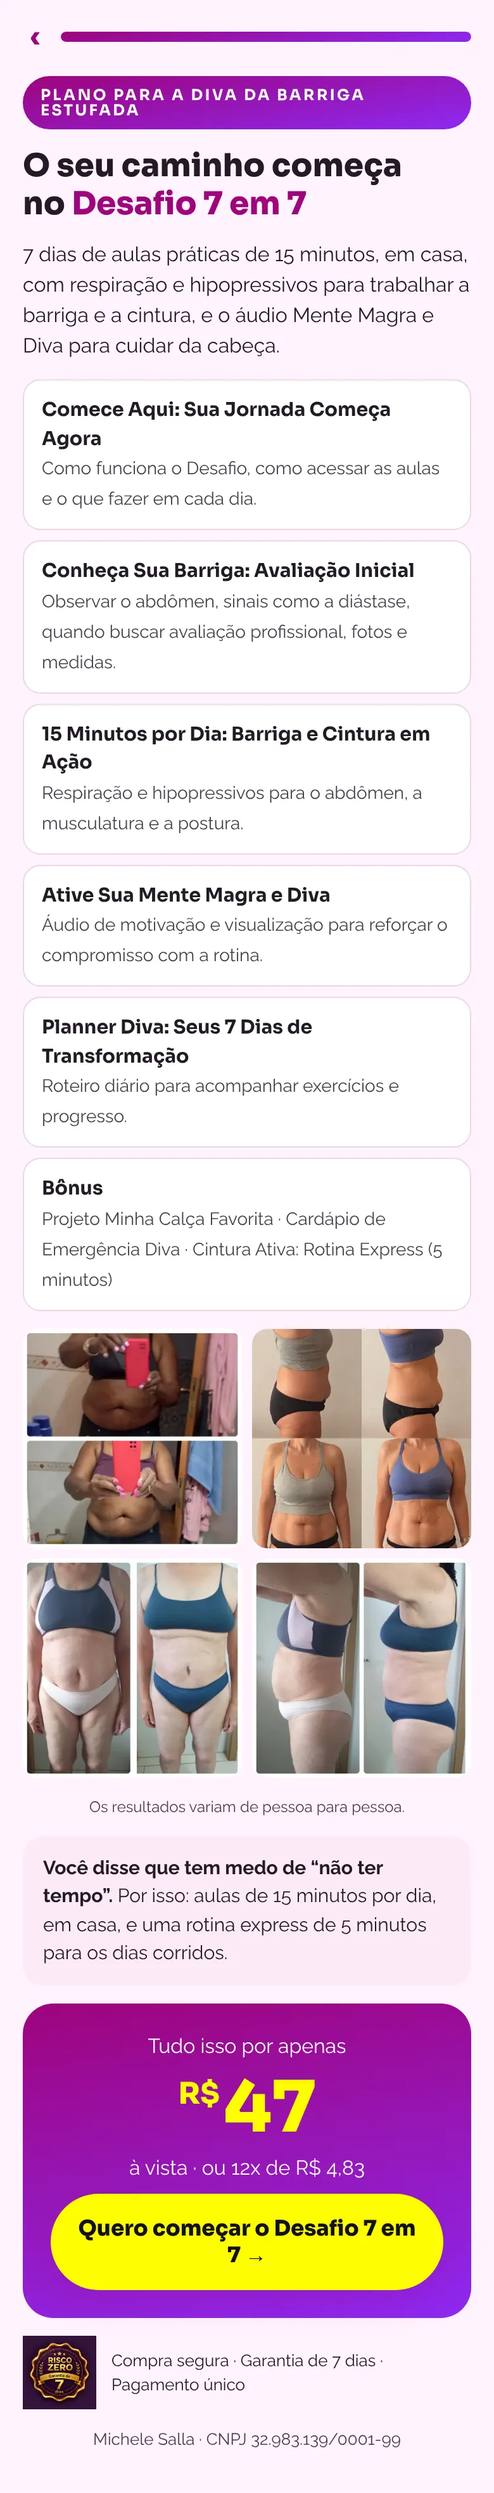
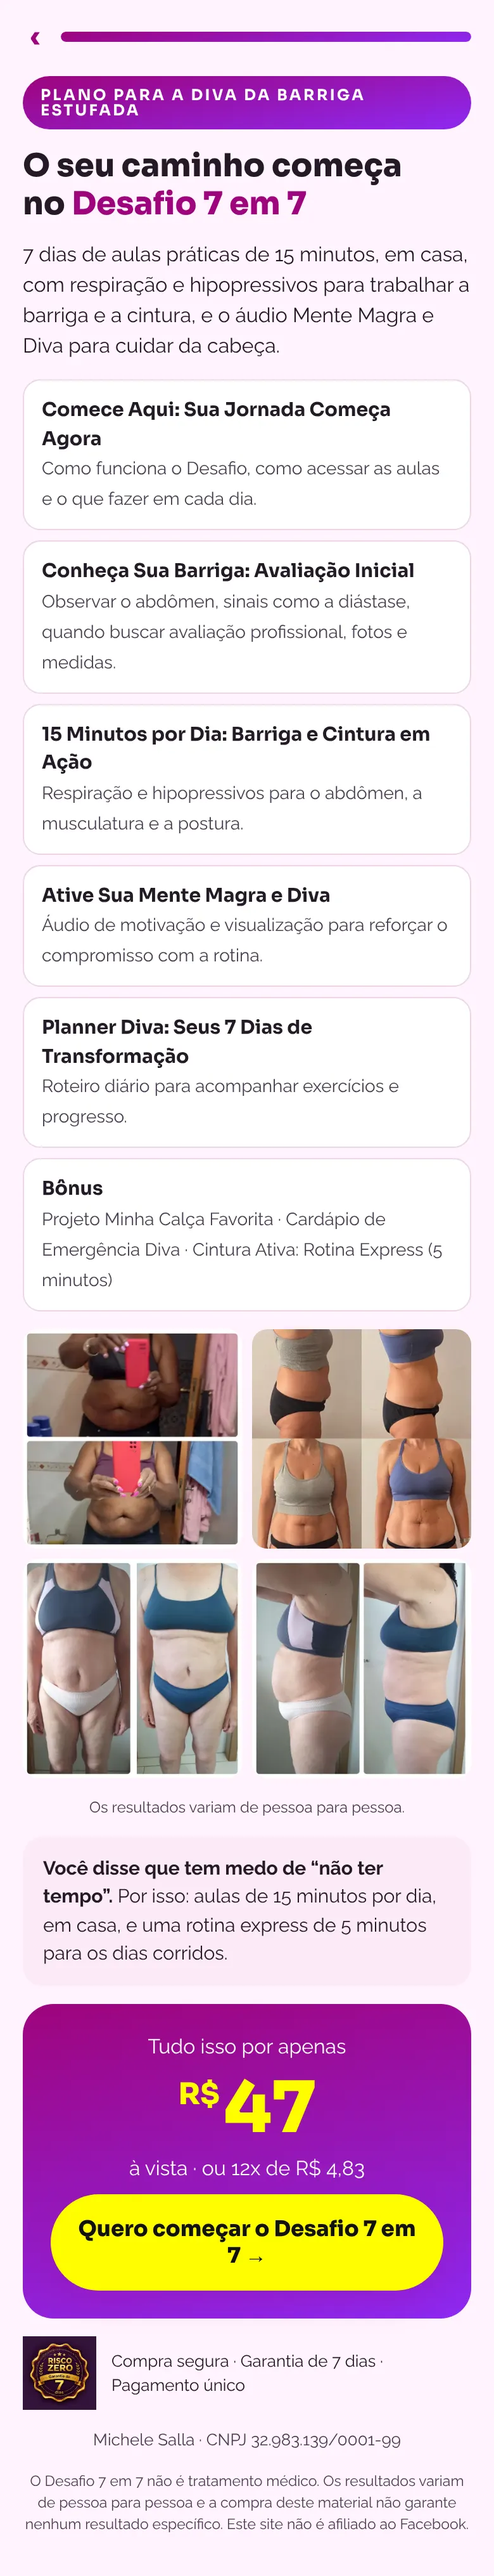
Quizzes da Michele: aviso de saúde na oferta e lista final do que pedir à Michele
Claude-Session: https://claude.ai/code/session_01LYmQoangNvB5k6wY4MKJN5

diff --git a/michele-salla/quiz-pilates/revisao/index.html b/michele-salla/quiz-pilates/revisao/index.html
@@ -163,9 +163,13 @@ footer{color:var(--suave);font-size:13px}
       <h3>O que ainda falta (da Hotmart)</h3>
       <ul class="checks pend">
         <li><span>Quantas aulas, quantos minutos cada e por quanto tempo fica o acesso (hoje o quiz não cita números, para não inventar).</span></li>
+        <li><span>Como a aluna acessa (área de membros da Hotmart? app?) e se é pagamento único, não assinatura.</span></li>
         <li><span>Confirmar se os nomes dos 5 blocos da oferta batem com os módulos da Hotmart (montei pelo texto dela).</span></li>
         <li><span>Bônus, se tiver. A garantia está como “mínima de 7 dias”: se na Hotmart for maior, me avise.</span></li>
-        <li><span>Prints de depoimentos de alunas do pilates (as fotos das aulas já estão no quiz).</span></li>
+        <li><span>Prints de depoimentos de alunas do pilates (texto ou WhatsApp, com autorização).</span></li>
+        <li><span>Confirmar que as alunas das fotos autorizaram o uso da imagem em anúncio e página.</span></li>
+        <li><span>Revisar como especialista o “O que está te travando” de cada perfil (ex.: “quando a postura sai do lugar, a barriga aparece mais”).</span></li>
+        <li><span>Se existe logo ou marca do “Pilates em Casa” (hoje o quiz usa só o nome).</span></li>
       </ul>
     </div>
   </div>

diff --git a/michele-salla/quiz/motor.js b/michele-salla/quiz/motor.js
@@ -129,7 +129,8 @@ function desenha() {
       <div class="preco"><span>Tudo isso por apenas</span><span class="v"><small>R$</small>${esc(O.valor)}</span><span>${txt(O.parcela)}</span>
         ${botao}</div>
       <div class="selos"><img src="${IMG}selo-garantia-7-dias.webp" alt="Garantia" width="400" height="400"><span>${txt(O.selos)}</span></div>
-      <p class="miudo">Michele Salla · CNPJ 32.983.139/0001-99</p></section>`
+      <p class="miudo">Michele Salla · CNPJ 32.983.139/0001-99</p>
+      ${O.rodape ? `<p class="miudo" style="font-size:11.5px">${txt(O.rodape)}</p>` : ''}</section>`
   }
   app.innerHTML = h
 }

diff --git a/michele-salla/quiz-pilates/pilates.js b/michele-salla/quiz-pilates/pilates.js
@@ -183,5 +183,6 @@ const QUIZ = {
     parcela: 'pagamento único, pela Hotmart',
     botao: 'Quero começar o meu pilates em casa',
     selos: 'Compra segura pela Hotmart · Garantia mínima de 7 dias · Pagamento único',
+    rodape: 'O Pilates em Casa não substitui avaliação médica ou fisioterapêutica. Se você tem dor, hérnia, teve bebê há pouco tempo ou tem outra condição de saúde, converse com o seu médico antes de começar. Os resultados variam de pessoa para pessoa. Este site não é afiliado ao Facebook.',
   },
 }

diff --git a/michele-salla/quiz/quiz.js b/michele-salla/quiz/quiz.js
@@ -195,5 +195,6 @@ const QUIZ = {
     parcela: 'à vista · ou 12x de R$ 4,83',
     botao: 'Quero começar o Desafio 7 em 7',
     selos: 'Compra segura · Garantia de 7 dias · Pagamento único',
+    rodape: 'O Desafio 7 em 7 não é tratamento médico. Os resultados variam de pessoa para pessoa e a compra deste material não garante nenhum resultado específico. Este site não é afiliado ao Facebook.',
   },
 }

diff --git a/michele-salla/PASSAGEM_BASTAO.md b/michele-salla/PASSAGEM_BASTAO.md
@@ -348,6 +348,10 @@ Os M da pasta "MICHELE LOW" são esses mesmos vídeos. Mapa conferido pelos quad
     `window.plBloco` (chama `window.plTique()` antes e depois da troca). Site `quiz` no `cliente.config.ts` (domínios: michelesalla.com.br,
     clientes-phi-six.vercel.app, painel.michelesalla.com.br). A API aceita vários sites no mesmo domínio pelo começo do slug.
     Telas abertas com `?tela=` (painel de revisão) não rastreiam. Se o quiz mudar de endereço, pôr o domínio em `outrosDominios`.
+  - **06/11 · Revisão final do quiz do pilates:** 5 testes = 5 promessas (capas p1–p5), 1 conjunto cada. Entrou o aviso de
+    saúde no rodapé da oferta (pilates e Desafio). Lista do que pedir à Michele no relatório (seção 5): aulas/minutos/acesso,
+    como acessa e se é pagamento único, nomes dos módulos, bônus, garantia, depoimentos, autorização de imagem das alunas,
+    revisão dos textos dos perfis, logo. Do Patrik: domínio, webhook Hotmart, pixel na Hotmart, preço R$ 37 no Brasil.
   - **06/11 · Sem migrar (Patrik: "vamos sem migrar"):** fica tudo nas nossas contas. Link do pilates: Hotmart
     https://pay.hotmart.com/K103974189L?off=6lnthlfw, **R$ 37** ("PILATES EM CASA - COM MICHELE SALLA"; a oferta 1exyl0t5 de
     R$ 47 foi trocada pelo Patrik). Verba sugerida por conjunto: R$ 16,65 (45% de R$ 37). Quiz sem nenhuma pendência visível
